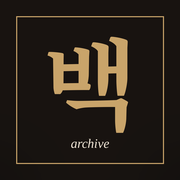
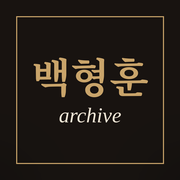
홈 화면 아이콘을 '백형훈 archive'로 변경
Claude-Session: https://claude.ai/code/session_01C4CE7Cpsny7qca69vBVMgi

Changed region(s): [[0.1667, 0.1944, 0.8333, 0.75], [0.3889, 0.7778, 0.6111, 0.8333]]

diff --git a/index.html b/index.html
@@ -7,8 +7,8 @@
 <meta name="apple-mobile-web-app-title" content="백형훈 아카이브">
 <meta name="apple-mobile-web-app-status-bar-style" content="black">
 <meta name="theme-color" content="#0f0d0c">
-<link rel="apple-touch-icon" href="apple-touch-icon.png?v=1">
-<link rel="icon" type="image/png" href="favicon.png?v=1">
+<link rel="apple-touch-icon" href="apple-touch-icon.png?v=2">
+<link rel="icon" type="image/png" href="favicon.png?v=2">
 <title>백형훈 아카이브</title>
 <link rel="preconnect" href="https://fonts.googleapis.com">
 <link rel="preconnect" href="https://fonts.gstatic.com" crossorigin>
